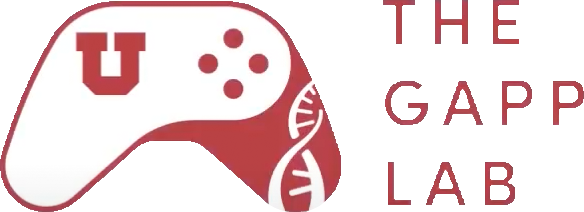
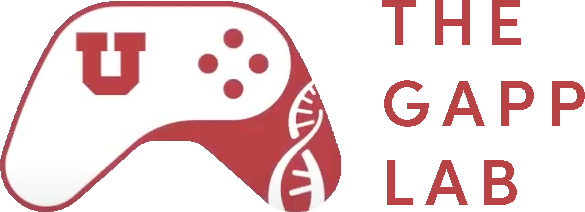
minimized the largest image assets by squooshing them to webp. still a few more out there to optimize, but this is fine for now. build size is down to 0.45MB Gzipped and 1MB total 😎 looking good fixed a mobile oddity that was pushing the coffee and text away from the heart on hover

diff --git a/src/pages/components/specialty/BeatingHeart.tsx b/src/pages/components/specialty/BeatingHeart.tsx
@@ -19,7 +19,7 @@ export const BeatingHeart: React.FC<BeatingHeartProps> = ({
   const minHeartRateBPM = 40.0;
   const maxHeartRateBPM = 160.0;
   const fixedAnimationDurationSec = 0.5;
-
+  const boxSize = 75;
   const minHRVPercent = 0.05;
   const maxHRVPercent = 0.2;
 
@@ -100,12 +100,13 @@ export const BeatingHeart: React.FC<BeatingHeartProps> = ({
     <Box
       display="inline-block"
       style={{
-        width: "70px",
-        height: "70px",
+        width: boxSize,
+        height: boxSize,
         textAlign: "center",
         position: "relative",
       }}
     >
+      {/* invisible box to catch interactions */}
       <Box
         ref={heartRef}
         style={{
@@ -122,19 +123,30 @@ export const BeatingHeart: React.FC<BeatingHeartProps> = ({
       />
       <Box
         style={{
-          animation: `cardiacCycle ${fixedAnimationDurationSec}s linear 1`,
-          fontSize: isHovered ? "70px" : "60px",
-          lineHeight: "70px",
-          transition: "font-size 0.15s ease-in-out",
+          position: "absolute",
+          transition: "transform 0.15s ease-in-out",
           cursor: "default",
-          // willChange no need to optimize. looks fine
+          left: "50%",
+          top: "50%",
+          transform: `translate(-50%, -50%) scale(${isHovered ? 1.2 : 1})`,
+          transformOrigin: "center",
         }}
-        key={animationKey} // Forces re-render
-        onAnimationEnd={handleAnimationEnd}
-        aria-label="Beating Heart"
-        id="beating_heart"
       >
-        🫀
+        <Box
+          style={{
+            fontSize: "60px",
+            animation: `cardiacCycle ${fixedAnimationDurationSec}s linear 1`,
+            cursor: "default",
+            transformOrigin: `${boxSize / 2}px ${boxSize / 2}px`,
+            // willChange no need to optimize. looks fine
+          }}
+          key={animationKey} // Forces re-render
+          onAnimationEnd={handleAnimationEnd}
+          aria-label="Beating Heart"
+          id="beating_heart"
+        >
+          🫀
+        </Box>
       </Box>
     </Box>
   );

diff --git a/src/data/projectData.ts b/src/data/projectData.ts
@@ -1,5 +1,5 @@
-import joshTilt2 from "@/assets/projects/josh-tilt.webp";
-import abcmouse from "@/assets/projects/abcmouse.jpg";
+import joshTilt from "@/assets/projects/josh-tilt.webp";
+import abcmouse from "@/assets/projects/abcmouse.webp";
 import clawface from "@/assets/projects/clawface.jpg";
 import { getSkills, SkillData } from "./skillsData";
 import { Employer, getEmployers } from "./employerData";
@@ -24,7 +24,7 @@ export const projectData: Project[] = [
 
 I developed the **full-stack, HIPAA-compliant** system, piloted with 11 patients, and co-authored studies that highlight its life-changing impact.
 `,
-    image: joshTilt2,
+    image: joshTilt,
     link: "#",
     color: "#e53935",
     textColor: "#ffffff",

diff --git a/src/data/employerData.ts b/src/data/employerData.ts
@@ -1,10 +1,10 @@
 import uhealthW from "@/assets/orgs/uhealth-w.png";
 import uhealth from "@/assets/orgs/uhealth.png";
-import gapplabW from "@/assets/orgs/gapplab-w.png";
-import gapplab from "@/assets/orgs/gapplab.png";
-import aolW from "@/assets/orgs/aol-w.png";
-import aol from "@/assets/orgs/aol.png";
-import hathos from "@/assets/orgs/hathos.jpg";
+import gapplabW from "@/assets/orgs/gapplab-w.webp";
+import gapplab from "@/assets/orgs/gapplab.webp";
+import aolW from "@/assets/orgs/aol-w.webp";
+import aol from "@/assets/orgs/aol.webp";
+import hathos from "@/assets/orgs/hathos.webp";
 
 export interface Employer {
   whiteSrc: string;

diff --git a/src/pages/sections/SkillsSection.tsx b/src/pages/sections/SkillsSection.tsx
@@ -53,7 +53,7 @@ export const SkillsSection = forwardRef<HTMLElement, SkillsSectionProps>(
         }}
         ref={ref}
       >
-        <Typography variant="h1" sx={{ mb: 2 }}>
+        <Typography variant="h1" sx={{ mb: 4 }}>
           {isYearsOfExperience ? "Experience" : "Skill Levels"}
         </Typography>
         <BouncingButton
@@ -62,7 +62,7 @@ export const SkillsSection = forwardRef<HTMLElement, SkillsSectionProps>(
           onMouseEnter={trackMouseEnter}
           onMouseLeave={trackMouseLeave}
           sx={{
-            mb: 17,
+            mb: 15,
             py: 2,
           }}
           variant="contained"

diff --git a/src/pages/components/Footer.tsx b/src/pages/components/Footer.tsx
@@ -49,9 +49,9 @@ export const Footer: React.FC<FooterProps> = ({
             Custom made with
           </Typography>
           <BeatingHeart heartTriggerRef={heartTriggerRef} />
-          <Box sx={{ width: 10 }}></Box>
+          <Box sx={{ width: 10 }} flexShrink={1}></Box>
           <SteamingCoffee />
-          <Box sx={{ width: 20 }}></Box>
+          <Box sx={{ width: 20 }} flexShrink={1}></Box>
           <ReactIconAnimation />
         </Box>
         <Typography variant="body2" sx={{ color: textColor }}>

diff --git a/src/data/skillsData.ts b/src/data/skillsData.ts
@@ -17,7 +17,7 @@ import sql from "@/assets/skills/sql.svg";
 import nosql from "@/assets/skills/nosql.svg";
 import cpp from "@/assets/skills/c++.svg";
 import bash from "@/assets/skills/bash.svg";
-import devops from "@/assets/skills/devops.png";
+import devops from "@/assets/skills/devops.webp";
 import hipaa from "@/assets/skills/hipaa.svg";
 
 export interface SkillData {

diff --git a/src/pages/sections/Hero.tsx b/src/pages/sections/Hero.tsx
@@ -113,8 +113,8 @@ export const Hero = forwardRef<HTMLElement, HeroProps>(
         component="section"
         id={id}
         sx={{
-          mt: { xs: -7 },
-          py: { xs: 0, sm: 10 },
+          mt: { xs: -7, sm: 0 },
+          py: { xs: 0, sm: 9 },
           backgroundColor: backgroundColor,
           color: textColor,
           scrollMarginTop: "80px",

diff --git a/src/data/projectDetails.ts b/src/data/projectDetails.ts
@@ -1,7 +1,7 @@
 import { SkillData } from "./skillsData";
 import { projectData } from "./projectData.ts";
 import joshTilt from "@/assets/projects/josh-tilt.webp";
-import abcmouse from "@/assets/projects/abcmouse.jpg";
+import abcmouse from "@/assets/projects/abcmouse.webp";
 import clawface from "@/assets/projects/clawface.jpg";
 
 export type ProjectDetail = {
